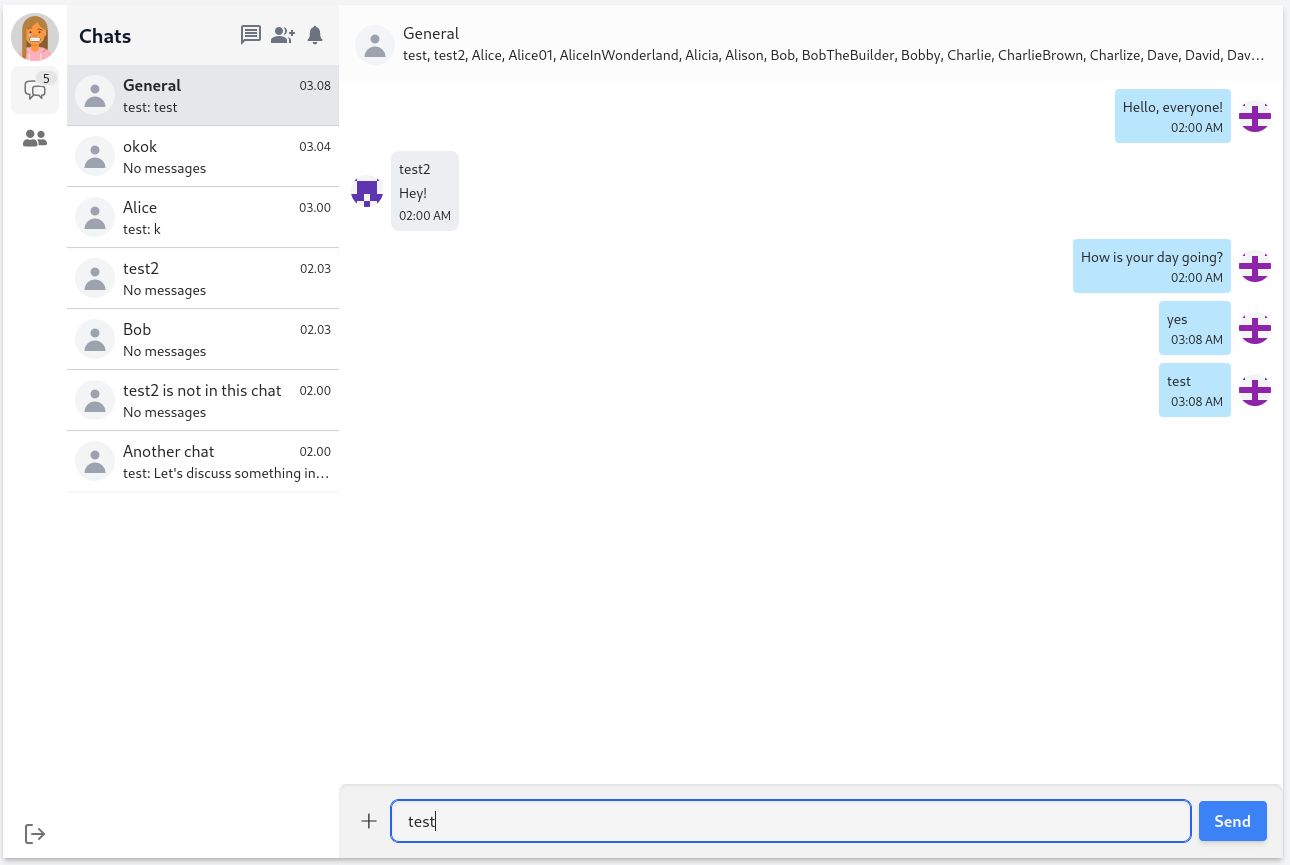
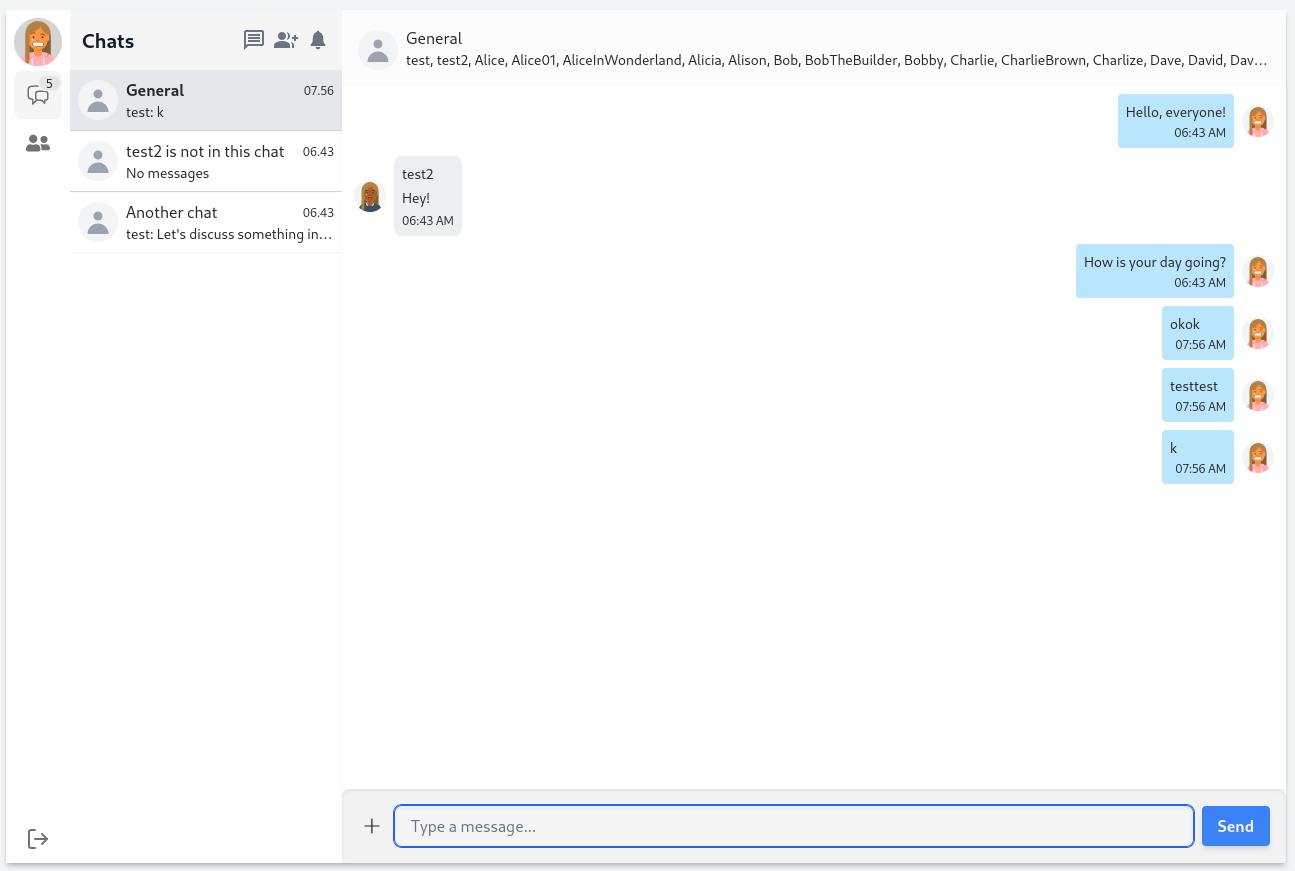
edit images and center login

diff --git a/client/src/components/RegisterForm.tsx b/client/src/components/RegisterForm.tsx
@@ -38,61 +38,65 @@ export const RegisterForm: React.FC<Props> = ({ onLoginClick }) => {
   };
 
   return (
-    <div className="container max-w-sm grow">
+    <div className="w-full">
       <form
         onSubmit={handleSubmit}
-        className="form-input border-0 bg-blue-50 py-[16px] shadow-md ring-2 ring-neutral-200 dark:border-collapse  dark:border-gray-700 dark:bg-gray-800 dark:text-gray-300 dark:shadow-2xl dark:ring-0"
+        className="form-input m-auto max-w-md rounded-lg border-0 bg-blue-50 py-[16px] shadow-md ring-1 dark:border-collapse  dark:border-gray-700 dark:bg-gray-800 dark:text-gray-300 dark:shadow-2xl dark:ring-0"
       >
-        <h5 className="mb-4 text-2xl font-bold">Create an account</h5>
-        <div className="p-2">
-          <label
-            htmlFor="login-username"
-            className="block py-2 text-sm font-medium text-gray-900 dark:text-white"
-          >
-            Username
-          </label>
-          <input
-            id="login-username"
-            type="text"
-            value={username}
-            onChange={(e) => setUsername(e.target.value)}
-            className="block w-full rounded-lg border border-gray-300 bg-gray-50 text-sm text-gray-900 focus:border-blue-500 focus:ring-blue-500 dark:border-gray-500 dark:bg-gray-600 dark:text-white dark:placeholder-gray-400"
-          />
-        </div>
-        <div className="p-2">
-          <label
-            htmlFor="login-password"
-            className="block py-2 text-sm font-medium text-gray-900 dark:text-white"
-          >
-            Password
-          </label>
-          <input
-            id="login-password"
-            type="password"
-            value={password}
-            onChange={(e) => setPassword(e.target.value)}
-            className="block w-full rounded-lg border border-gray-300 bg-gray-50 text-sm text-gray-900 transition-none focus:border-blue-500 focus:ring-blue-500 dark:border-gray-500 dark:bg-gray-600 dark:text-white dark:placeholder-gray-400"
-          />
-        </div>
-        <div className="my-6">
-          <button
-            // disabled={loading}
-            className="w-full rounded-lg bg-blue-700 px-5 py-2.5 text-center text-sm font-medium text-white hover:bg-blue-800 focus:outline-none focus:ring-4 focus:ring-blue-300 dark:bg-blue-600 dark:hover:bg-blue-700 dark:focus:ring-blue-800"
-            type="submit"
-          >
-            Register
-          </button>
-        </div>
-        <div className="hei mt-20 font-sans text-sm text-gray-500 dark:text-gray-300">
-          Already have an account?{" "}
-          <Link
-            type="button"
-            to="/login"
-            onClick={onLoginClick}
-            className="text-blue-700 hover:underline dark:text-blue-500"
-          >
-            Sign In
-          </Link>
+        <div className="flex flex-col gap-4 p-4 md:p-8">
+          <header>
+            <h3 className="text-2xl font-bold">Create an account</h3>
+          </header>
+          <div>
+            <label
+              htmlFor="login-username"
+              className="block text-sm font-medium text-gray-900 dark:text-white"
+            >
+              Username
+            </label>
+            <input
+              id="login-username"
+              type="text"
+              value={username}
+              onChange={(e) => setUsername(e.target.value)}
+              className="block w-full rounded-lg border border-gray-300 bg-gray-50 text-sm text-gray-900 focus:border-blue-500 focus:ring-blue-500 dark:border-gray-500 dark:bg-gray-600 dark:text-white dark:placeholder-gray-400"
+            />
+          </div>
+          <div>
+            <label
+              htmlFor="login-password"
+              className="block text-sm font-medium text-gray-900 dark:text-white"
+            >
+              Password
+            </label>
+            <input
+              id="login-password"
+              type="password"
+              value={password}
+              onChange={(e) => setPassword(e.target.value)}
+              className="block w-full rounded-lg border border-gray-300 bg-gray-50 text-sm text-gray-900 transition-none focus:border-blue-500 focus:ring-blue-500 dark:border-gray-500 dark:bg-gray-600 dark:text-white dark:placeholder-gray-400"
+            />
+          </div>
+          <div>
+            <button
+              // disabled={loading}
+              className="w-full rounded-lg bg-blue-700 px-5 py-2.5 text-center text-sm font-medium text-white hover:bg-blue-800 focus:outline-none focus:ring-4 focus:ring-blue-300 dark:bg-blue-600 dark:hover:bg-blue-700 dark:focus:ring-blue-800"
+              type="submit"
+            >
+              Register
+            </button>
+          </div>
+          <div className="text-sm text-gray-500 dark:text-gray-300">
+            Already have an account?{" "}
+            <Link
+              type="button"
+              to="/login"
+              onClick={onLoginClick}
+              className="text-blue-700 hover:underline dark:text-blue-500"
+            >
+              Sign In
+            </Link>
+          </div>
         </div>
       </form>
       <p className="mt-2 text-center text-xs text-gray-500">

diff --git a/client/src/components/LoginForm.tsx b/client/src/components/LoginForm.tsx
@@ -16,7 +16,7 @@ export const LoginForm: FC<LoginFormProps> = ({
   const [password, setPassword] = useState("");
 
   return (
-    <>
+    <div className="w-full">
       <form
         onSubmit={(e) => {
           e.preventDefault();
@@ -25,11 +25,11 @@ export const LoginForm: FC<LoginFormProps> = ({
         data-testid="login-form"
         className="form-input m-auto max-w-md rounded-lg border-0 bg-blue-50 py-[16px] shadow-md ring-1 dark:border-collapse  dark:border-gray-700 dark:bg-gray-800 dark:text-gray-300 dark:shadow-2xl dark:ring-0"
       >
-        {/* input fields */}
         <div className="flex flex-col gap-4 p-4 md:p-8">
           <header>
             <h3 className="text-2xl font-bold">Sign in to your account</h3>
           </header>
+          {/* input fields */}
           <div>
             <label
               htmlFor="login-username"
@@ -67,32 +67,7 @@ export const LoginForm: FC<LoginFormProps> = ({
               className="block w-full rounded-lg border border-gray-300 bg-gray-50 text-sm text-gray-900 transition-none focus:border-blue-500 focus:ring-blue-500 dark:border-gray-500 dark:bg-gray-600 dark:text-white dark:placeholder-gray-400"
             />
           </div>
-          {/* buttons etc */}
-          <div className="h-full w-full">
-            <div className="inline-flex w-full justify-between">
-              <div className="space-x-2 text-sm">
-                <input
-                  id="remember"
-                  type="checkbox"
-                  value=""
-                  className="focus:ring-3 h-4 w-4 rounded border border-gray-300 bg-gray-50 focus:ring-blue-300 dark:border-gray-600 dark:bg-gray-700 dark:ring-offset-gray-800 dark:focus:ring-blue-600 dark:focus:ring-offset-gray-800 dark:active:bg-gray-700"
-                />
-
-                <label
-                  htmlFor="remember"
-                  className="text-sm font-medium text-gray-900 dark:text-gray-300"
-                >
-                  Remember me
-                </label>
-              </div>
-              <Link to="/forgot-password">
-                <div className="justify-end text-sm text-blue-700 hover:underline dark:text-blue-500">
-                  <span>Lost Password?</span>
-                </div>
-              </Link>
-            </div>
-          </div>
-          <div className="">
+          <div>
             <button
               // disabled={loading}
               className="h-10 w-full rounded-lg bg-blue-700 text-center text-sm font-medium text-white hover:bg-blue-800 focus:outline-none focus:ring-4 focus:ring-blue-300 dark:bg-blue-600 dark:hover:bg-blue-700 dark:focus:ring-blue-800"
@@ -118,8 +93,8 @@ export const LoginForm: FC<LoginFormProps> = ({
         </div>
       </form>
       <p className="mt-2 text-center text-xs text-gray-500">
-        &copy;2023 matiasdn. All rights reserved.
+        &copy;2023 matiasdn
       </p>
-    </>
+    </div>
   );
 };

diff --git a/client/src/components/LoginScreen.tsx b/client/src/components/LoginScreen.tsx
@@ -41,16 +41,30 @@ export const LoginScreen: React.FC = () => {
   };
 
   return (
-    <>
-      {currentForm === FormType.Login ? (
-        <LoginForm
-          onRegisterClick={() => setCurrentForm(FormType.Register)}
-          navigate={navigate}
-          handleSubmit={handleSubmit}
-        />
-      ) : (
-        <RegisterForm onLoginClick={() => setCurrentForm(FormType.Login)} />
-      )}
-    </>
+    <div className="flex items-center justify-center h-screen">
+      <div className="inline-flex py-20 px-10 rounded-2xl bg-neutral-100">
+        <div className="flex flex-col items-center justify-center gap-4">
+          <h2 className="text-2xl font-bold text-start w-full">
+            Welcome to Fullstack Messenger
+          </h2>
+          <p className="text-lg text-gray-500">
+            A chat app built with React, Redux, and Tailwind, socket.io, and
+            more!
+          </p>
+        </div>
+        <div className="w-px h-96 bg-gray-300 dark:bg-gray-700 mx-8"></div>
+        <div className="flex flex-col items-center justify-center w-[448px]">
+          {currentForm === FormType.Login ? (
+            <LoginForm
+              onRegisterClick={() => setCurrentForm(FormType.Register)}
+              navigate={navigate}
+              handleSubmit={handleSubmit}
+            />
+          ) : (
+            <RegisterForm onLoginClick={() => setCurrentForm(FormType.Login)} />
+          )}
+        </div>
+      </div>
+    </div>
   );
 };

diff --git a/client/src/components/UserSearch.tsx b/client/src/components/UserSearch.tsx
@@ -65,8 +65,8 @@ const SearchListItem = ({ user }) => {
       <div className="inline-flex grow basis-1/3 items-center">
         <img
           className="inline-block h-8 w-8 rounded-full"
-          src={`https://avatars.dicebear.com/api/identicon/${user.username}.svg`}
-          alt=""
+          src={`https://api.dicebear.com/6.x/avataaars/svg?seed=${user.username}`}
+          alt="avatar"
         />
         <p className="ml-2 text-sm font-medium text-gray-900 dark:text-gray-300">
           {user.username}

diff --git a/client/src/components/GroupForm.tsx b/client/src/components/GroupForm.tsx
@@ -23,8 +23,8 @@ const formatOptionLabel = ({ value, label, avatar }) => (
   <div className="flex flex-row items-center">
     <img
       className="inline-block h-8 w-8 rounded-full"
-      src={`https://avatars.dicebear.com/api/identicon/${label}.svg`}
-      alt=""
+      src={`https://api.dicebear.com/6.x/avataaars/svg?seed=${label}`}
+      alt="avatar"
     />
     <p className="ml-2 text-sm font-medium text-gray-900 dark:text-gray-300">
       {label}
